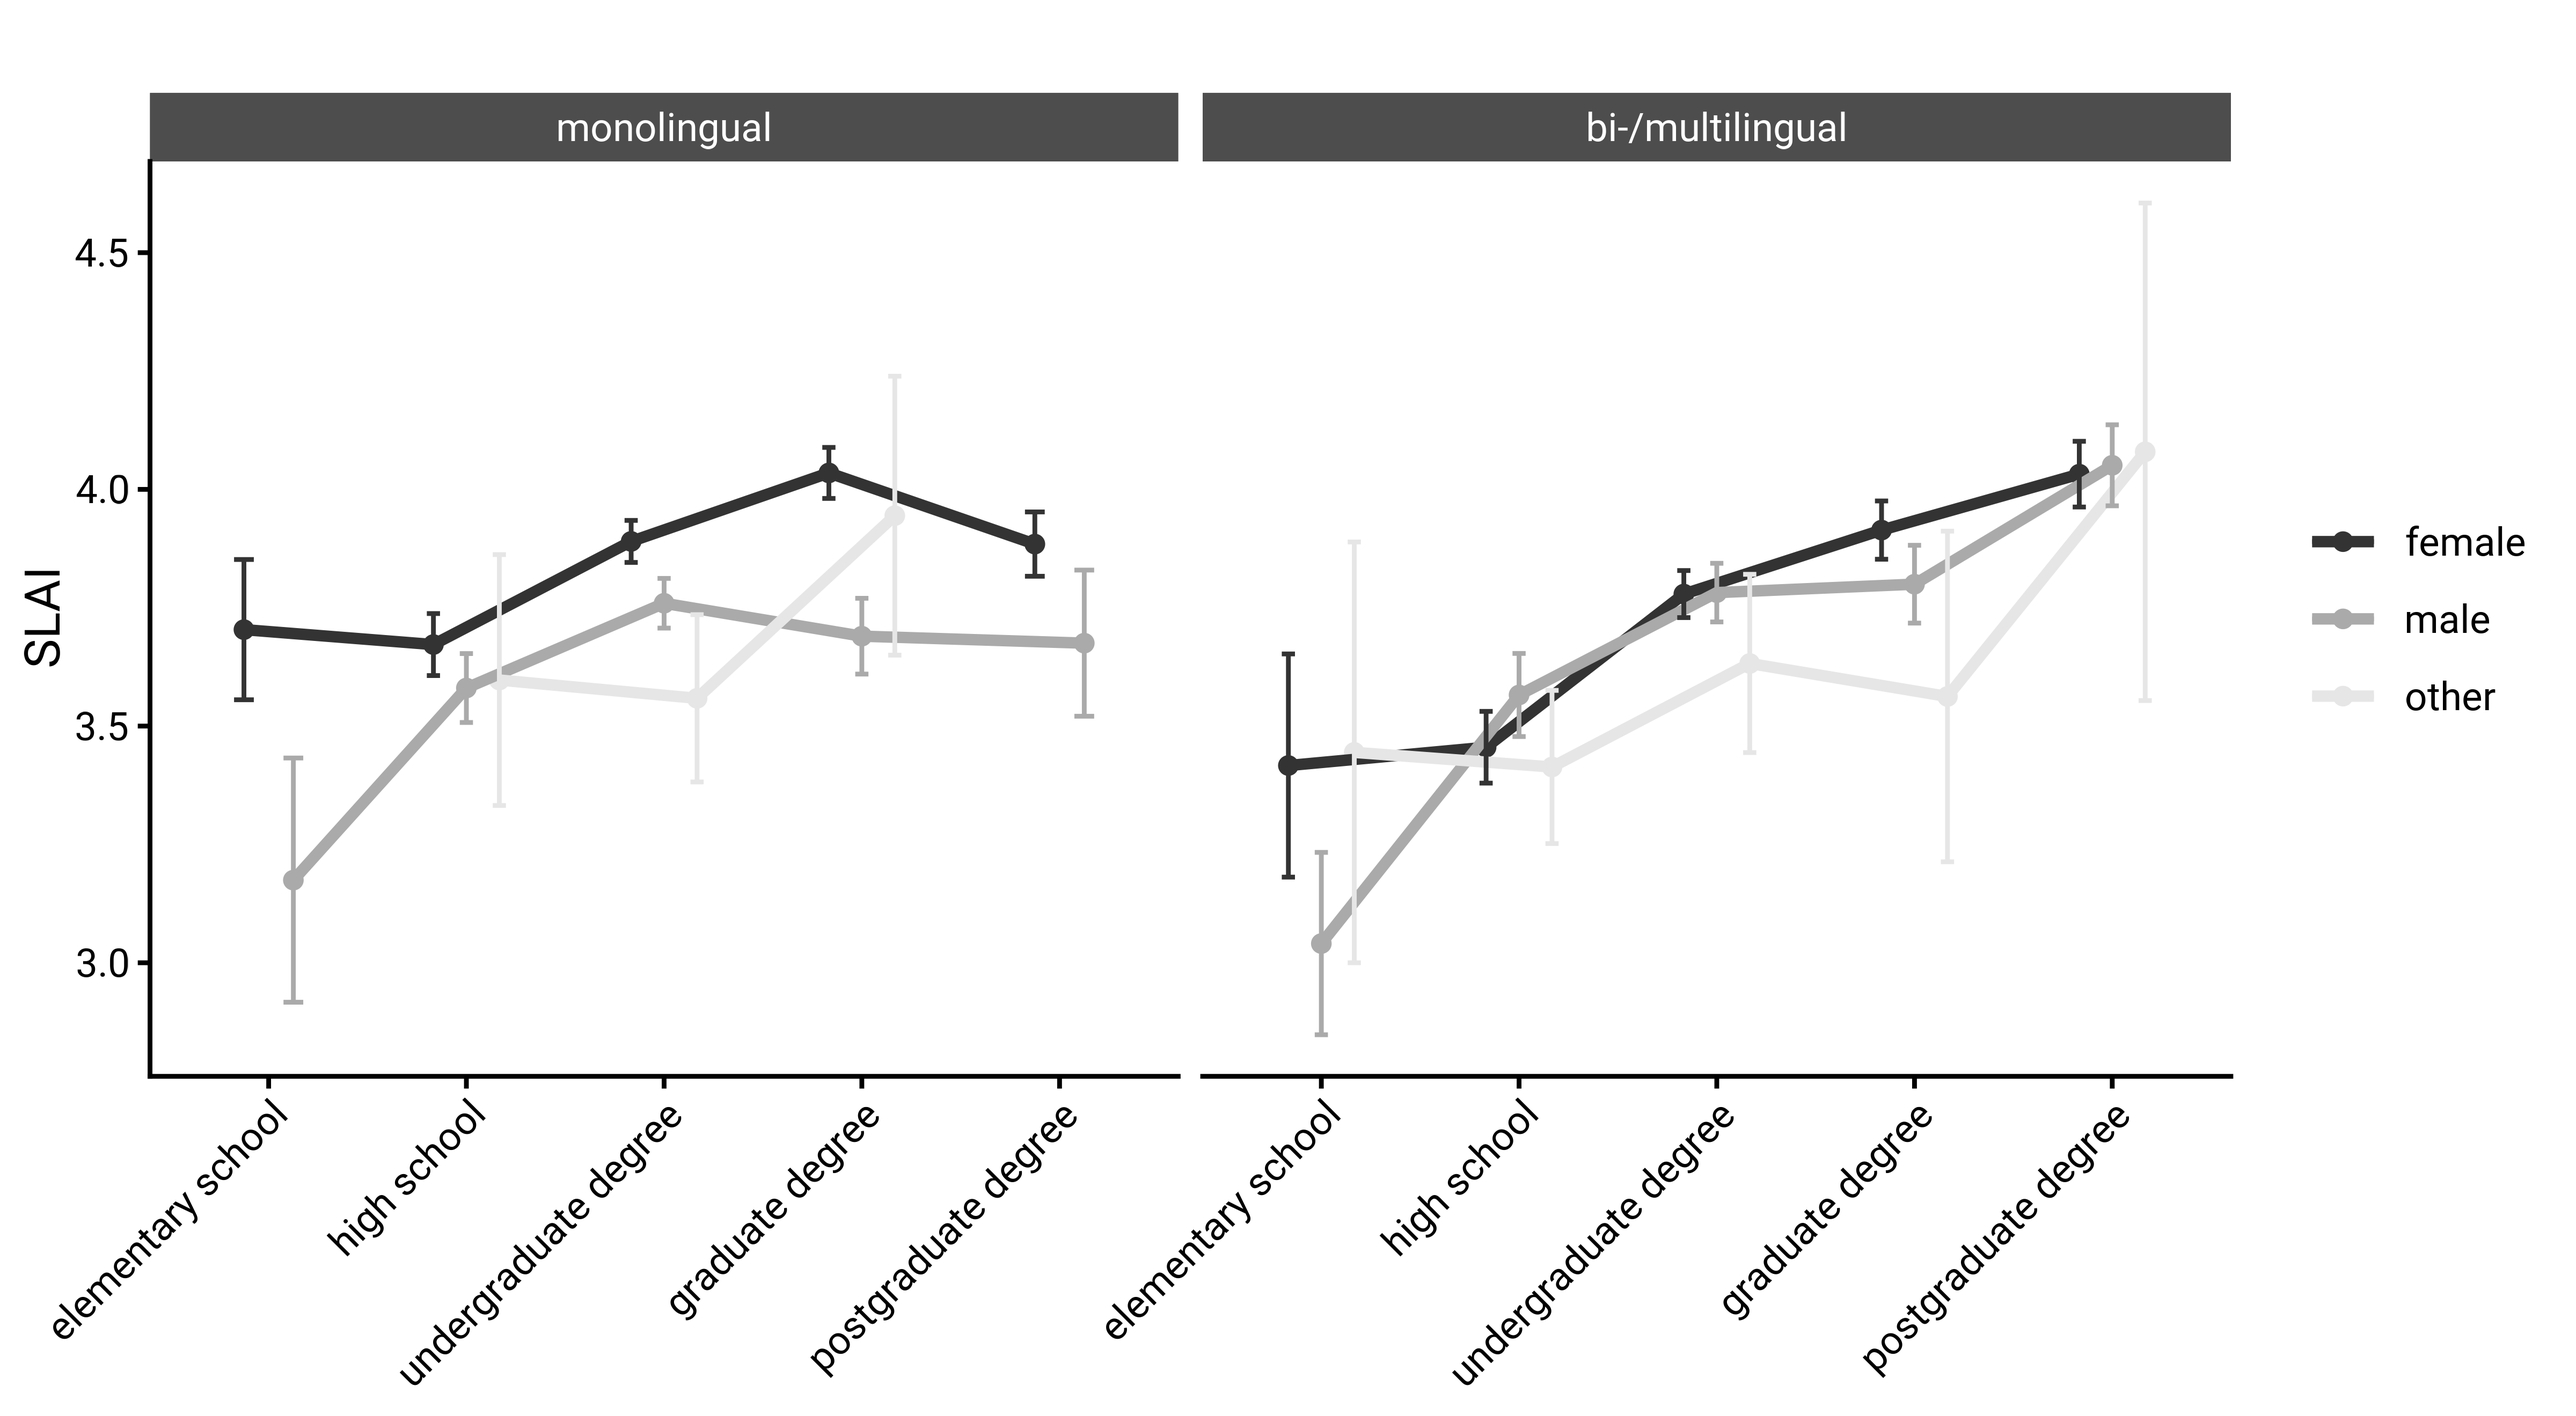
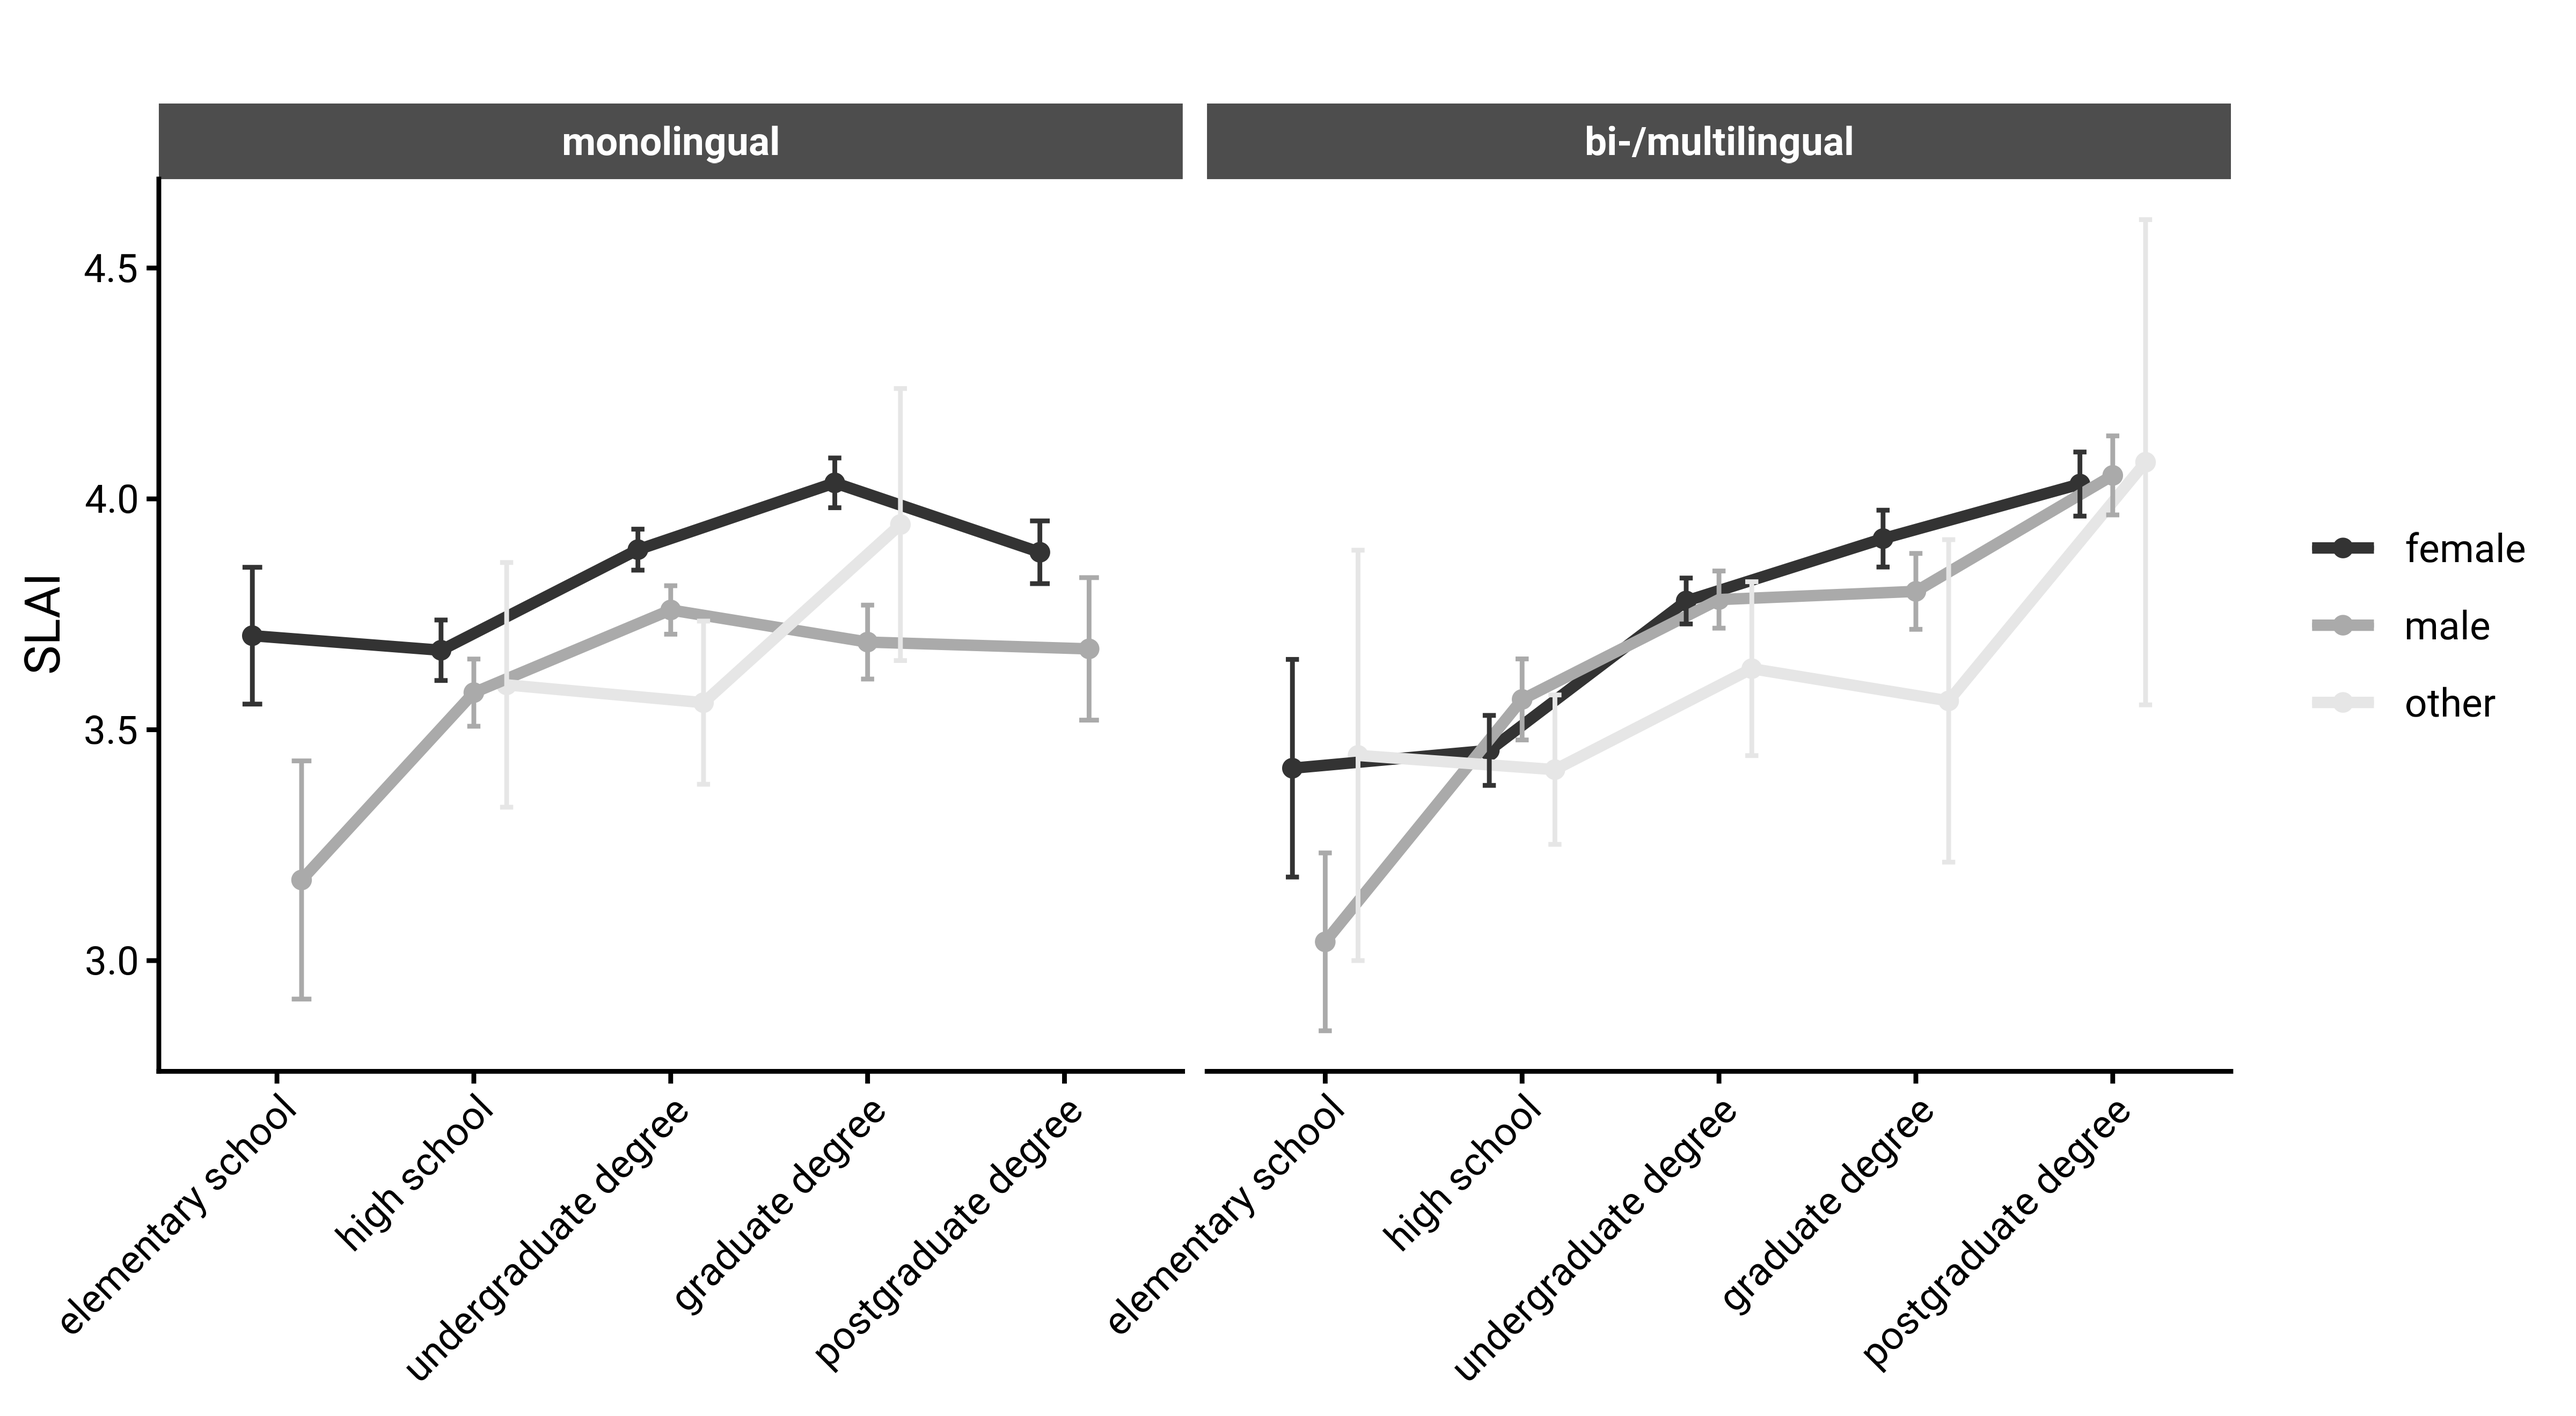
type in fig 9

diff --git a/index.html b/index.html
@@ -333,23 +333,23 @@ To Stefan
 <p>I have selected the following variables by short names, hoping that these are the correct ones to show in Figure 2.</p>
 <div class="cell">
 <div class="cell-output-display">
-<div id="tyujrmnfmq" style="padding-left:0px;padding-right:0px;padding-top:10px;padding-bottom:10px;overflow-x:auto;overflow-y:auto;width:auto;height:auto;">
-<style>#tyujrmnfmq table {
+<div id="kkaxvqesuc" style="padding-left:0px;padding-right:0px;padding-top:10px;padding-bottom:10px;overflow-x:auto;overflow-y:auto;width:auto;height:auto;">
+<style>#kkaxvqesuc table {
   font-family: system-ui, 'Segoe UI', Roboto, Helvetica, Arial, sans-serif, 'Apple Color Emoji', 'Segoe UI Emoji', 'Segoe UI Symbol', 'Noto Color Emoji';
   -webkit-font-smoothing: antialiased;
   -moz-osx-font-smoothing: grayscale;
 }
 
-#tyujrmnfmq thead, #tyujrmnfmq tbody, #tyujrmnfmq tfoot, #tyujrmnfmq tr, #tyujrmnfmq td, #tyujrmnfmq th {
+#kkaxvqesuc thead, #kkaxvqesuc tbody, #kkaxvqesuc tfoot, #kkaxvqesuc tr, #kkaxvqesuc td, #kkaxvqesuc th {
   border-style: none;
 }
 
-#tyujrmnfmq p {
+#kkaxvqesuc p {
   margin: 0;
   padding: 0;
 }
 
-#tyujrmnfmq .gt_table {
+#kkaxvqesuc .gt_table {
   display: table;
   border-collapse: collapse;
   line-height: normal;
@@ -375,12 +375,12 @@ To Stefan
   border-left-color: #D3D3D3;
 }
 
-#tyujrmnfmq .gt_caption {
+#kkaxvqesuc .gt_caption {
   padding-top: 4px;
   padding-bottom: 4px;
 }
 
-#tyujrmnfmq .gt_title {
+#kkaxvqesuc .gt_title {
   color: #333333;
   font-size: 125%;
   font-weight: initial;
@@ -392,7 +392,7 @@ To Stefan
   border-bottom-width: 0;
 }
 
-#tyujrmnfmq .gt_subtitle {
+#kkaxvqesuc .gt_subtitle {
   color: #333333;
   font-size: 85%;
   font-weight: initial;
@@ -404,7 +404,7 @@ To Stefan
   border-top-width: 0;
 }
 
-#tyujrmnfmq .gt_heading {
+#kkaxvqesuc .gt_heading {
   background-color: #FFFFFF;
   text-align: center;
   border-bottom-color: #FFFFFF;
@@ -416,13 +416,13 @@ To Stefan
   border-right-color: #D3D3D3;
 }
 
-#tyujrmnfmq .gt_bottom_border {
+#kkaxvqesuc .gt_bottom_border {
   border-bottom-style: solid;
   border-bottom-width: 2px;
   border-bottom-color: #D3D3D3;
 }
 
-#tyujrmnfmq .gt_col_headings {
+#kkaxvqesuc .gt_col_headings {
   border-top-style: solid;
   border-top-width: 2px;
   border-top-color: #D3D3D3;
@@ -437,7 +437,7 @@ To Stefan
   border-right-color: #D3D3D3;
 }
 
-#tyujrmnfmq .gt_col_heading {
+#kkaxvqesuc .gt_col_heading {
   color: #333333;
   background-color: #FFFFFF;
   font-size: 100%;
@@ -457,7 +457,7 @@ To Stefan
   overflow-x: hidden;
 }
 
-#tyujrmnfmq .gt_column_spanner_outer {
+#kkaxvqesuc .gt_column_spanner_outer {
   color: #333333;
   background-color: #FFFFFF;
   font-size: 100%;
@@ -469,15 +469,15 @@ To Stefan
   padding-right: 4px;
 }
 
-#tyujrmnfmq .gt_column_spanner_outer:first-child {
+#kkaxvqesuc .gt_column_spanner_outer:first-child {
   padding-left: 0;
 }
 
-#tyujrmnfmq .gt_column_spanner_outer:last-child {
+#kkaxvqesuc .gt_column_spanner_outer:last-child {
   padding-right: 0;
 }
 
-#tyujrmnfmq .gt_column_spanner {
+#kkaxvqesuc .gt_column_spanner {
   border-bottom-style: solid;
   border-bottom-width: 2px;
   border-bottom-color: #D3D3D3;
@@ -489,11 +489,11 @@ To Stefan
   width: 100%;
 }
 
-#tyujrmnfmq .gt_spanner_row {
+#kkaxvqesuc .gt_spanner_row {
   border-bottom-style: hidden;
 }
 
-#tyujrmnfmq .gt_group_heading {
+#kkaxvqesuc .gt_group_heading {
   padding-top: 8px;
   padding-bottom: 8px;
   padding-left: 5px;
@@ -519,7 +519,7 @@ To Stefan
   text-align: left;
 }
 
-#tyujrmnfmq .gt_empty_group_heading {
+#kkaxvqesuc .gt_empty_group_heading {
   padding: 0.5px;
   color: #333333;
   background-color: #FFFFFF;
@@ -534,15 +534,15 @@ To Stefan
   vertical-align: middle;
 }
 
-#tyujrmnfmq .gt_from_md > :first-child {
+#kkaxvqesuc .gt_from_md > :first-child {
   margin-top: 0;
 }
 
-#tyujrmnfmq .gt_from_md > :last-child {
+#kkaxvqesuc .gt_from_md > :last-child {
   margin-bottom: 0;
 }
 
-#tyujrmnfmq .gt_row {
+#kkaxvqesuc .gt_row {
   padding-top: 8px;
   padding-bottom: 8px;
   padding-left: 5px;
@@ -561,7 +561,7 @@ To Stefan
   overflow-x: hidden;
 }
 
-#tyujrmnfmq .gt_stub {
+#kkaxvqesuc .gt_stub {
   color: #333333;
   background-color: #FFFFFF;
   font-size: 100%;
@@ -574,7 +574,7 @@ To Stefan
   padding-right: 5px;
 }
 
-#tyujrmnfmq .gt_stub_row_group {
+#kkaxvqesuc .gt_stub_row_group {
   color: #333333;
   background-color: #FFFFFF;
   font-size: 100%;
@@ -588,15 +588,15 @@ To Stefan
   vertical-align: top;
 }
 
-#tyujrmnfmq .gt_row_group_first td {
+#kkaxvqesuc .gt_row_group_first td {
   border-top-width: 2px;
 }
 
-#tyujrmnfmq .gt_row_group_first th {
+#kkaxvqesuc .gt_row_group_first th {
   border-top-width: 2px;
 }
 
-#tyujrmnfmq .gt_summary_row {
+#kkaxvqesuc .gt_summary_row {
   color: #333333;
   background-color: #FFFFFF;
   text-transform: inherit;
@@ -606,16 +606,16 @@ To Stefan
   padding-right: 5px;
 }
 
-#tyujrmnfmq .gt_first_summary_row {
+#kkaxvqesuc .gt_first_summary_row {
   border-top-style: solid;
   border-top-color: #D3D3D3;
 }
 
-#tyujrmnfmq .gt_first_summary_row.thick {
+#kkaxvqesuc .gt_first_summary_row.thick {
   border-top-width: 2px;
 }
 
-#tyujrmnfmq .gt_last_summary_row {
+#kkaxvqesuc .gt_last_summary_row {
   padding-top: 8px;
   padding-bottom: 8px;
   padding-left: 5px;
@@ -625,7 +625,7 @@ To Stefan
   border-bottom-color: #D3D3D3;
 }
 
-#tyujrmnfmq .gt_grand_summary_row {
+#kkaxvqesuc .gt_grand_summary_row {
   color: #333333;
   background-color: #FFFFFF;
   text-transform: inherit;
@@ -635,7 +635,7 @@ To Stefan
   padding-right: 5px;
 }
 
-#tyujrmnfmq .gt_first_grand_summary_row {
+#kkaxvqesuc .gt_first_grand_summary_row {
   padding-top: 8px;
   padding-bottom: 8px;
   padding-left: 5px;
@@ -645,7 +645,7 @@ To Stefan
   border-top-color: #D3D3D3;
 }
 
-#tyujrmnfmq .gt_last_grand_summary_row_top {
+#kkaxvqesuc .gt_last_grand_summary_row_top {
   padding-top: 8px;
   padding-bottom: 8px;
   padding-left: 5px;
@@ -655,11 +655,11 @@ To Stefan
   border-bottom-color: #D3D3D3;
 }
 
-#tyujrmnfmq .gt_striped {
+#kkaxvqesuc .gt_striped {
   background-color: rgba(128, 128, 128, 0.05);
 }
 
-#tyujrmnfmq .gt_table_body {
+#kkaxvqesuc .gt_table_body {
   border-top-style: solid;
   border-top-width: 2px;
   border-top-color: #D3D3D3;
@@ -668,7 +668,7 @@ To Stefan
   border-bottom-color: #D3D3D3;
 }
 
-#tyujrmnfmq .gt_footnotes {
+#kkaxvqesuc .gt_footnotes {
   color: #333333;
   background-color: #FFFFFF;
   border-bottom-style: none;
@@ -682,7 +682,7 @@ To Stefan
   border-right-color: #D3D3D3;
 }
 
-#tyujrmnfmq .gt_footnote {
+#kkaxvqesuc .gt_footnote {
   margin: 0px;
   font-size: 90%;
   padding-top: 4px;
@@ -691,7 +691,7 @@ To Stefan
   padding-right: 5px;
 }
 
-#tyujrmnfmq .gt_sourcenotes {
+#kkaxvqesuc .gt_sourcenotes {
   color: #333333;
   background-color: #FFFFFF;
   border-bottom-style: none;
@@ -705,7 +705,7 @@ To Stefan
   border-right-color: #D3D3D3;
 }
 
-#tyujrmnfmq .gt_sourcenote {
+#kkaxvqesuc .gt_sourcenote {
   font-size: 90%;
   padding-top: 4px;
   padding-bottom: 4px;
@@ -713,72 +713,72 @@ To Stefan
   padding-right: 5px;
 }
 
-#tyujrmnfmq .gt_left {
+#kkaxvqesuc .gt_left {
   text-align: left;
 }
 
-#tyujrmnfmq .gt_center {
+#kkaxvqesuc .gt_center {
   text-align: center;
 }
 
-#tyujrmnfmq .gt_right {
+#kkaxvqesuc .gt_right {
   text-align: right;
   font-variant-numeric: tabular-nums;
 }
 
-#tyujrmnfmq .gt_font_normal {
+#kkaxvqesuc .gt_font_normal {
   font-weight: normal;
 }
 
-#tyujrmnfmq .gt_font_bold {
+#kkaxvqesuc .gt_font_bold {
   font-weight: bold;
 }
 
-#tyujrmnfmq .gt_font_italic {
+#kkaxvqesuc .gt_font_italic {
   font-style: italic;
 }
 
-#tyujrmnfmq .gt_super {
+#kkaxvqesuc .gt_super {
   font-size: 65%;
 }
 
-#tyujrmnfmq .gt_footnote_marks {
+#kkaxvqesuc .gt_footnote_marks {
   font-size: 75%;
   vertical-align: 0.4em;
   position: initial;
 }
 
-#tyujrmnfmq .gt_asterisk {
+#kkaxvqesuc .gt_asterisk {
   font-size: 100%;
   vertical-align: 0;
 }
 
-#tyujrmnfmq .gt_indent_1 {
+#kkaxvqesuc .gt_indent_1 {
   text-indent: 5px;
 }
 
-#tyujrmnfmq .gt_indent_2 {
+#kkaxvqesuc .gt_indent_2 {
   text-indent: 10px;
 }
 
-#tyujrmnfmq .gt_indent_3 {
+#kkaxvqesuc .gt_indent_3 {
   text-indent: 15px;
 }
 
-#tyujrmnfmq .gt_indent_4 {
+#kkaxvqesuc .gt_indent_4 {
   text-indent: 20px;
 }
 
-#tyujrmnfmq .gt_indent_5 {
+#kkaxvqesuc .gt_indent_5 {
   text-indent: 25px;
 }
 
-#tyujrmnfmq .katex-display {
+#kkaxvqesuc .katex-display {
   display: inline-flex !important;
   margin-bottom: 0.75em !important;
 }
 
-#tyujrmnfmq div.Reactable > div.rt-table > div.rt-thead > div.rt-tr.rt-tr-group-header > div.rt-th-group:after {
+#kkaxvqesuc div.Reactable > div.rt-table > div.rt-thead > div.rt-tr.rt-tr-group-header > div.rt-th-group:after {
   height: 0px !important;
 }
 </style>
@@ -1747,7 +1747,7 @@ Figure&nbsp;8: Standard Language Attitude Index by education.
 <span id="cb9-25"><a href="#cb9-25" aria-hidden="true" tabindex="-1"></a>    <span class="at">legend.title =</span> <span class="fu">element_text</span>(<span class="at">family =</span> <span class="st">"roboto"</span>),</span>
 <span id="cb9-26"><a href="#cb9-26" aria-hidden="true" tabindex="-1"></a>    <span class="at">axis.text.x =</span> <span class="fu">element_text</span>(<span class="at">angle =</span> <span class="dv">45</span>, <span class="at">hjust =</span> <span class="dv">1</span>),</span>
 <span id="cb9-27"><a href="#cb9-27" aria-hidden="true" tabindex="-1"></a>    <span class="at">strip.background =</span> <span class="fu">element_rect</span>(<span class="at">fill =</span> <span class="st">"grey30"</span>, <span class="at">color =</span> <span class="st">"grey30"</span>), </span>
-<span id="cb9-28"><a href="#cb9-28" aria-hidden="true" tabindex="-1"></a>    <span class="at">strip.text =</span> <span class="fu">element_text</span>(<span class="at">color =</span> <span class="st">"white"</span>)</span>
+<span id="cb9-28"><a href="#cb9-28" aria-hidden="true" tabindex="-1"></a>    <span class="at">strip.text =</span> <span class="fu">element_text</span>(<span class="at">color =</span> <span class="st">"white"</span>, <span class="at">face=</span><span class="st">"bold"</span>)</span>
 <span id="cb9-29"><a href="#cb9-29" aria-hidden="true" tabindex="-1"></a>    )</span></code><button title="Copy to Clipboard" class="code-copy-button"><i class="bi"></i></button></pre></div>
 </details>
 <div class="cell-output-display">
